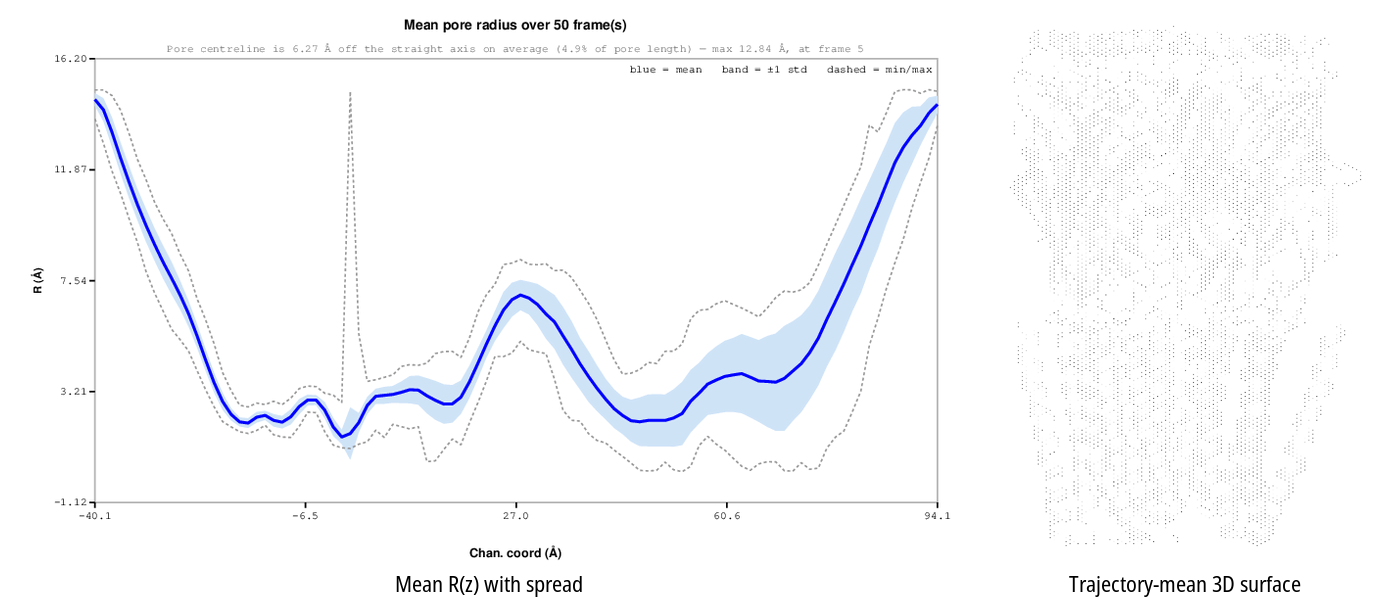
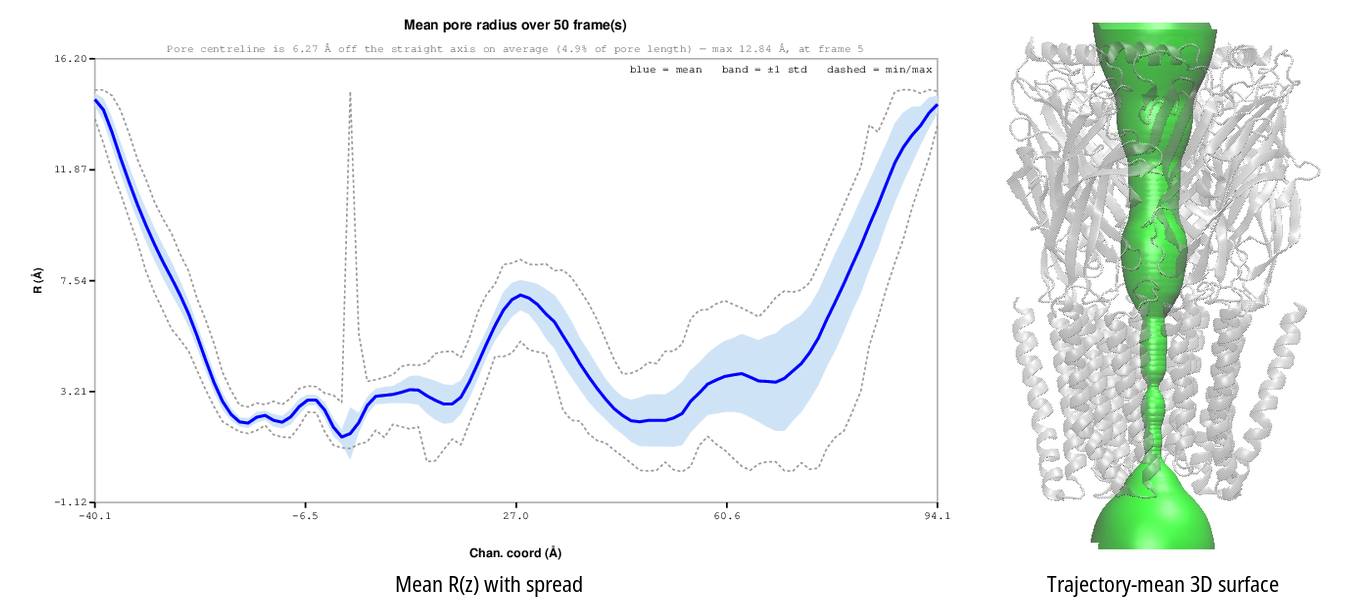
VMDHole 1.0.0

diff --git a/docs/pore-mode.md b/docs/pore-mode.md
@@ -55,7 +55,7 @@ the selected mode and its radii.
 
 ## 4. Select the pore model
 
-<p align="center"><img src="../images/pore_methods.png" alt="The three pore models on the same channel: spherical probe, Connolly accessible surface, capsule profile" width="860"></p>
+<p align="center"><img src="images/pore_methods.png" alt="The three pore models on the same channel: spherical probe, Connolly accessible surface, capsule profile" width="860"></p>
 
 The default spherical method reports the radius of the largest sphere that fits
 without overlapping atomic van der Waals spheres. Two optional cross-section
@@ -111,7 +111,7 @@ Before interpreting a result:
 
 ### Pore Profile
 
-<p align="center"><img src="../images/pore_profile_panel.png" alt="Pore Profile tab: radius along the channel with property fill" width="720"></p>
+<p align="center"><img src="images/pore_profile_panel.png" alt="Pore Profile tab: radius along the channel with property fill" width="720"></p>
 
 Shows radius against channel coordinate for the selected frame.
 
@@ -133,7 +133,7 @@ from the same tab.
 
 ### Over Time
 
-<p align="center"><img src="../images/over_time_kd.png" alt="Over Time heatmap: Kyte-Doolittle hydropathy along the pore across the trajectory" width="720"></p>
+<p align="center"><img src="images/over_time_kd.png" alt="Over Time heatmap: Kyte-Doolittle hydropathy along the pore across the trajectory" width="720"></p>
 
 Shows position by frame for either radius or a selected property. Radius can
 come from the HOLE profile or the ellipse fit. The property selector is
@@ -145,7 +145,7 @@ chosen source and color scheme with exported data.
 
 ### Mean Profile
 
-<p align="center"><img src="../images/mean_profile.png" alt="Mean radius profile with spread band, and the revolved trajectory-mean 3D surface" width="860"></p>
+<p align="center"><img src="images/mean_profile.png" alt="Mean radius profile with spread band, and the revolved trajectory-mean 3D surface" width="860"></p>
 
 Aggregates compatible profiles across analysed frames and reports their spread.
 Optional controls add a property fill or a revolved 3D mean surface. The
@@ -174,7 +174,7 @@ truncated and marked; CSV values are unchanged.
 
 ### Hydration
 
-<p align="center"><img src="../images/hydration_free_energy.png" alt="Water free-energy profile G(z) with the +/-1 sigma spread band" width="720"></p>
+<p align="center"><img src="images/hydration_free_energy.png" alt="Water free-energy profile G(z) with the +/-1 sigma spread band" width="720"></p>
 
 Hydration is CHAP-compatible pore analysis for explicit-water trajectories. Set
 a VMD water-oxygen selection and select **Compute**. Views are Density, Energy,
@@ -186,7 +186,7 @@ geometry. Cite CHAP from the
 
 ### Ion Flow
 
-<p align="center"><img src="../images/ion_passage.png" alt="Ion passage plot: per-ion axial traces through the pore over the trajectory" width="720"></p>
+<p align="center"><img src="images/ion_passage.png" alt="Ion passage plot: per-ion axial traces through the pore over the trajectory" width="720"></p>
 
 Requires ions and at least two trajectory frames. **Occupancy %** maps where
 ions are observed in the pore coordinate system. **Ion Passage** displays the

diff --git a/docs/tunnel-mode.md b/docs/tunnel-mode.md
@@ -1,6 +1,6 @@
 # Tunnel workflow
 
-<p align="center"><img src="../images/tunnel_3d_side.png" alt="Four tunnels found by the MOLE 2 engine, branching from a buried start point" width="480"></p>
+<p align="center"><img src="images/tunnel_3d_side.png" alt="Four tunnels found by the MOLE 2 engine, branching from a buried start point" width="480"></p>
 
 Tunnel mode searches for routes from a buried site to the molecular surface.
 Use it for internal cavities, enzyme access paths, and branched egress routes.
@@ -52,7 +52,7 @@ results.
 
 ## 4. Run and inspect routes
 
-<p align="center"><img src="../images/tunnel_panel.png" alt="Tunnel panel: per-route bottleneck, length, hydrophobicity and charge, with the selected route profile" width="860"></p>
+<p align="center"><img src="images/tunnel_panel.png" alt="Tunnel panel: per-route bottleneck, length, hydrophobicity and charge, with the selected route profile" width="860"></p>
 
 Select **Run Tunnel**. The route table reports:
 

diff --git a/docs/properties.md b/docs/properties.md
@@ -7,7 +7,7 @@ figure.
 
 ## Available properties
 
-<p align="center"><img src="../images/render_hydrophobicity.png" alt="3D pore surface colored by residue hydrophobicity" width="720"></p>
+<p align="center"><img src="images/render_hydrophobicity.png" alt="3D pore surface colored by residue hydrophobicity" width="720"></p>
 
 | Interface label | Quantity and source | Important restriction |
 |---|---|---|
@@ -79,7 +79,7 @@ offers current-frame **Water density** when per-frame hydration data exist.
 
 ## Unrolled map layers
 
-<p align="center"><img src="../images/unrolled_map.png" alt="Unrolled 2D pore-wall map" width="720"></p>
+<p align="center"><img src="images/unrolled_map.png" alt="Unrolled 2D pore-wall map" width="720"></p>
 
 **Unrolled** maps use wall distance, oxygen/nitrogen identity, residue number,
 chain (or segment), and polarity. They also offer Kyte–Doolittle,
